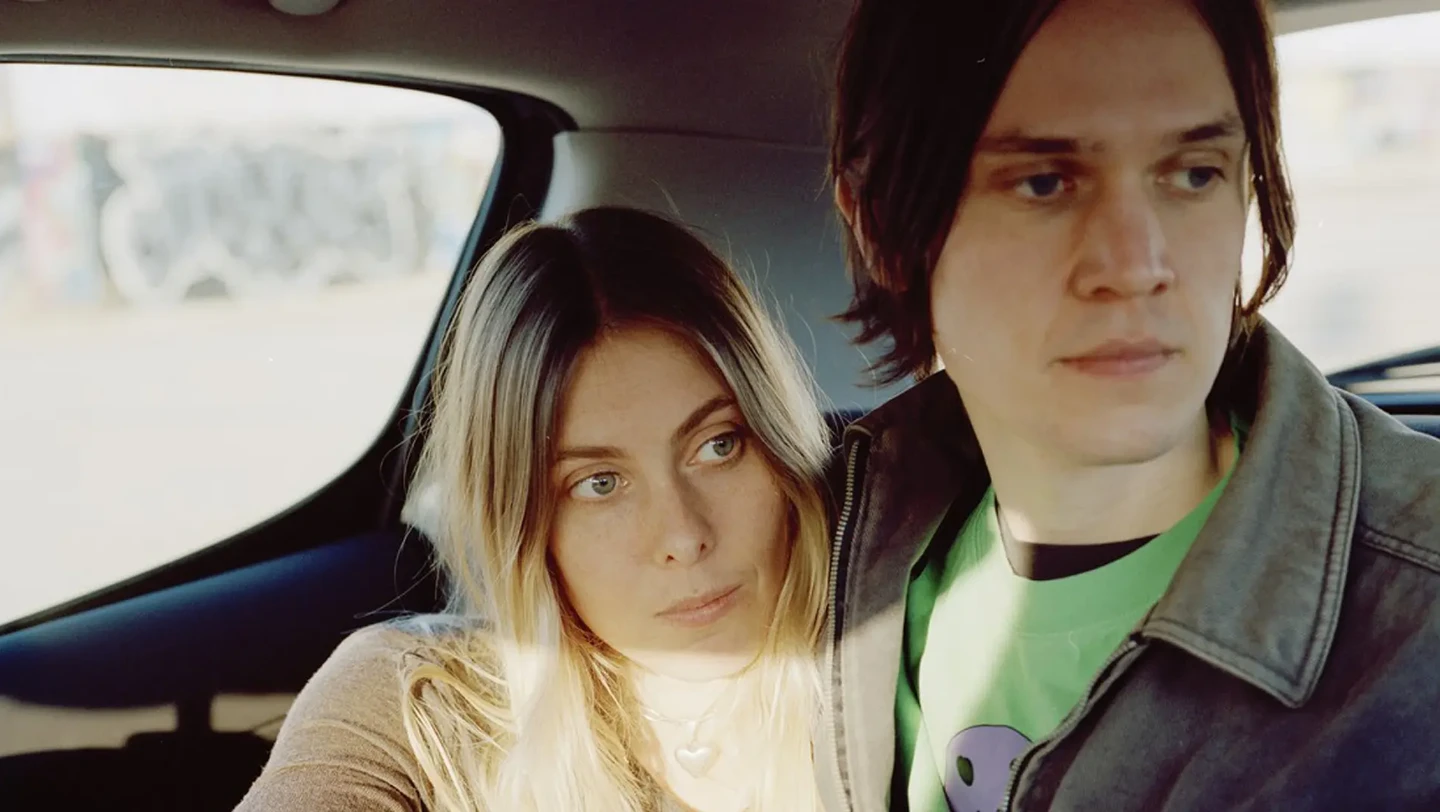
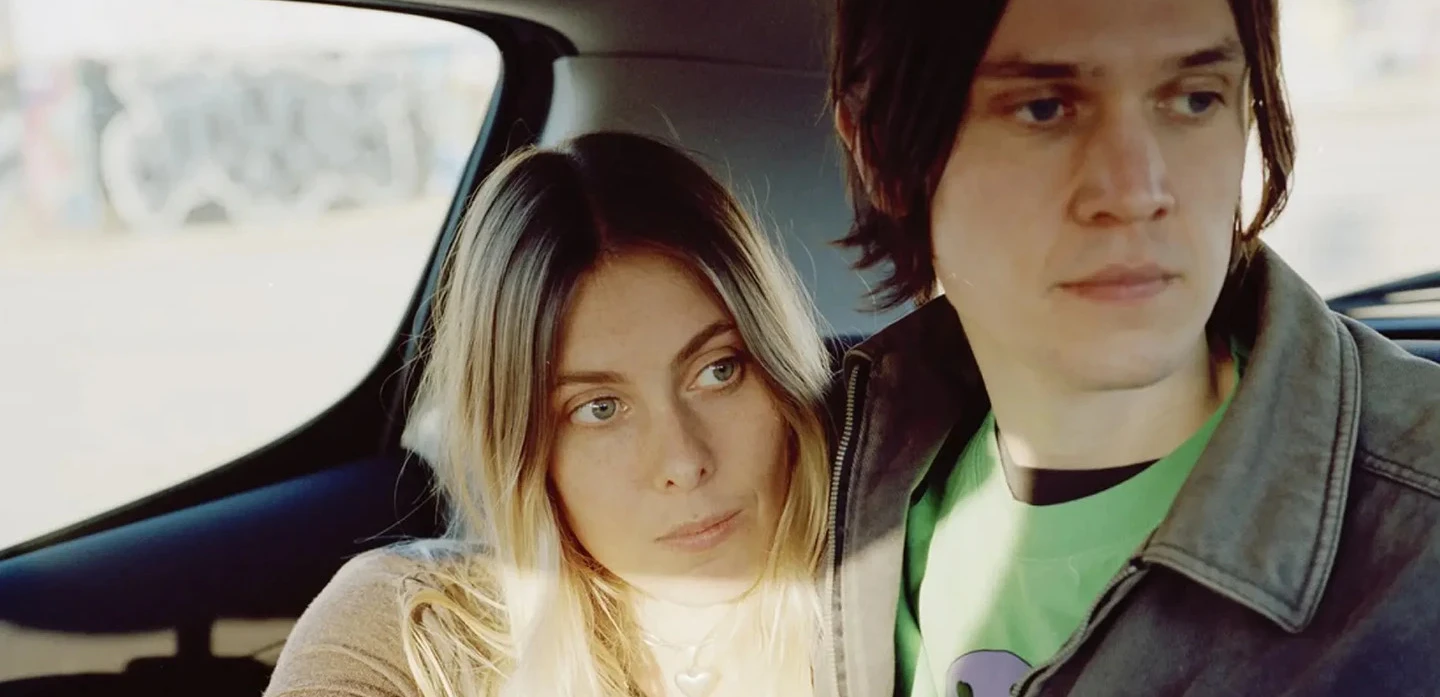
mere css

diff --git a/src/css/global.css b/src/css/global.css
@@ -10,6 +10,17 @@
 <link href="https://fonts.googleapis.com/css2?family=Archivo+Narrow:ital,wght@0,400..700;1,400..700&display=swap" rel="stylesheet">
 **/
 
+/**img reset**/
+* {
+  margin: 0;
+  padding: 0;
+  box-sizing: border-box;
+}
+img {
+  display: block;
+  width: 100%;
+}
+
 h1 {
   font-family: "Coiny", system-ui;
   color: var(--primary-color);
